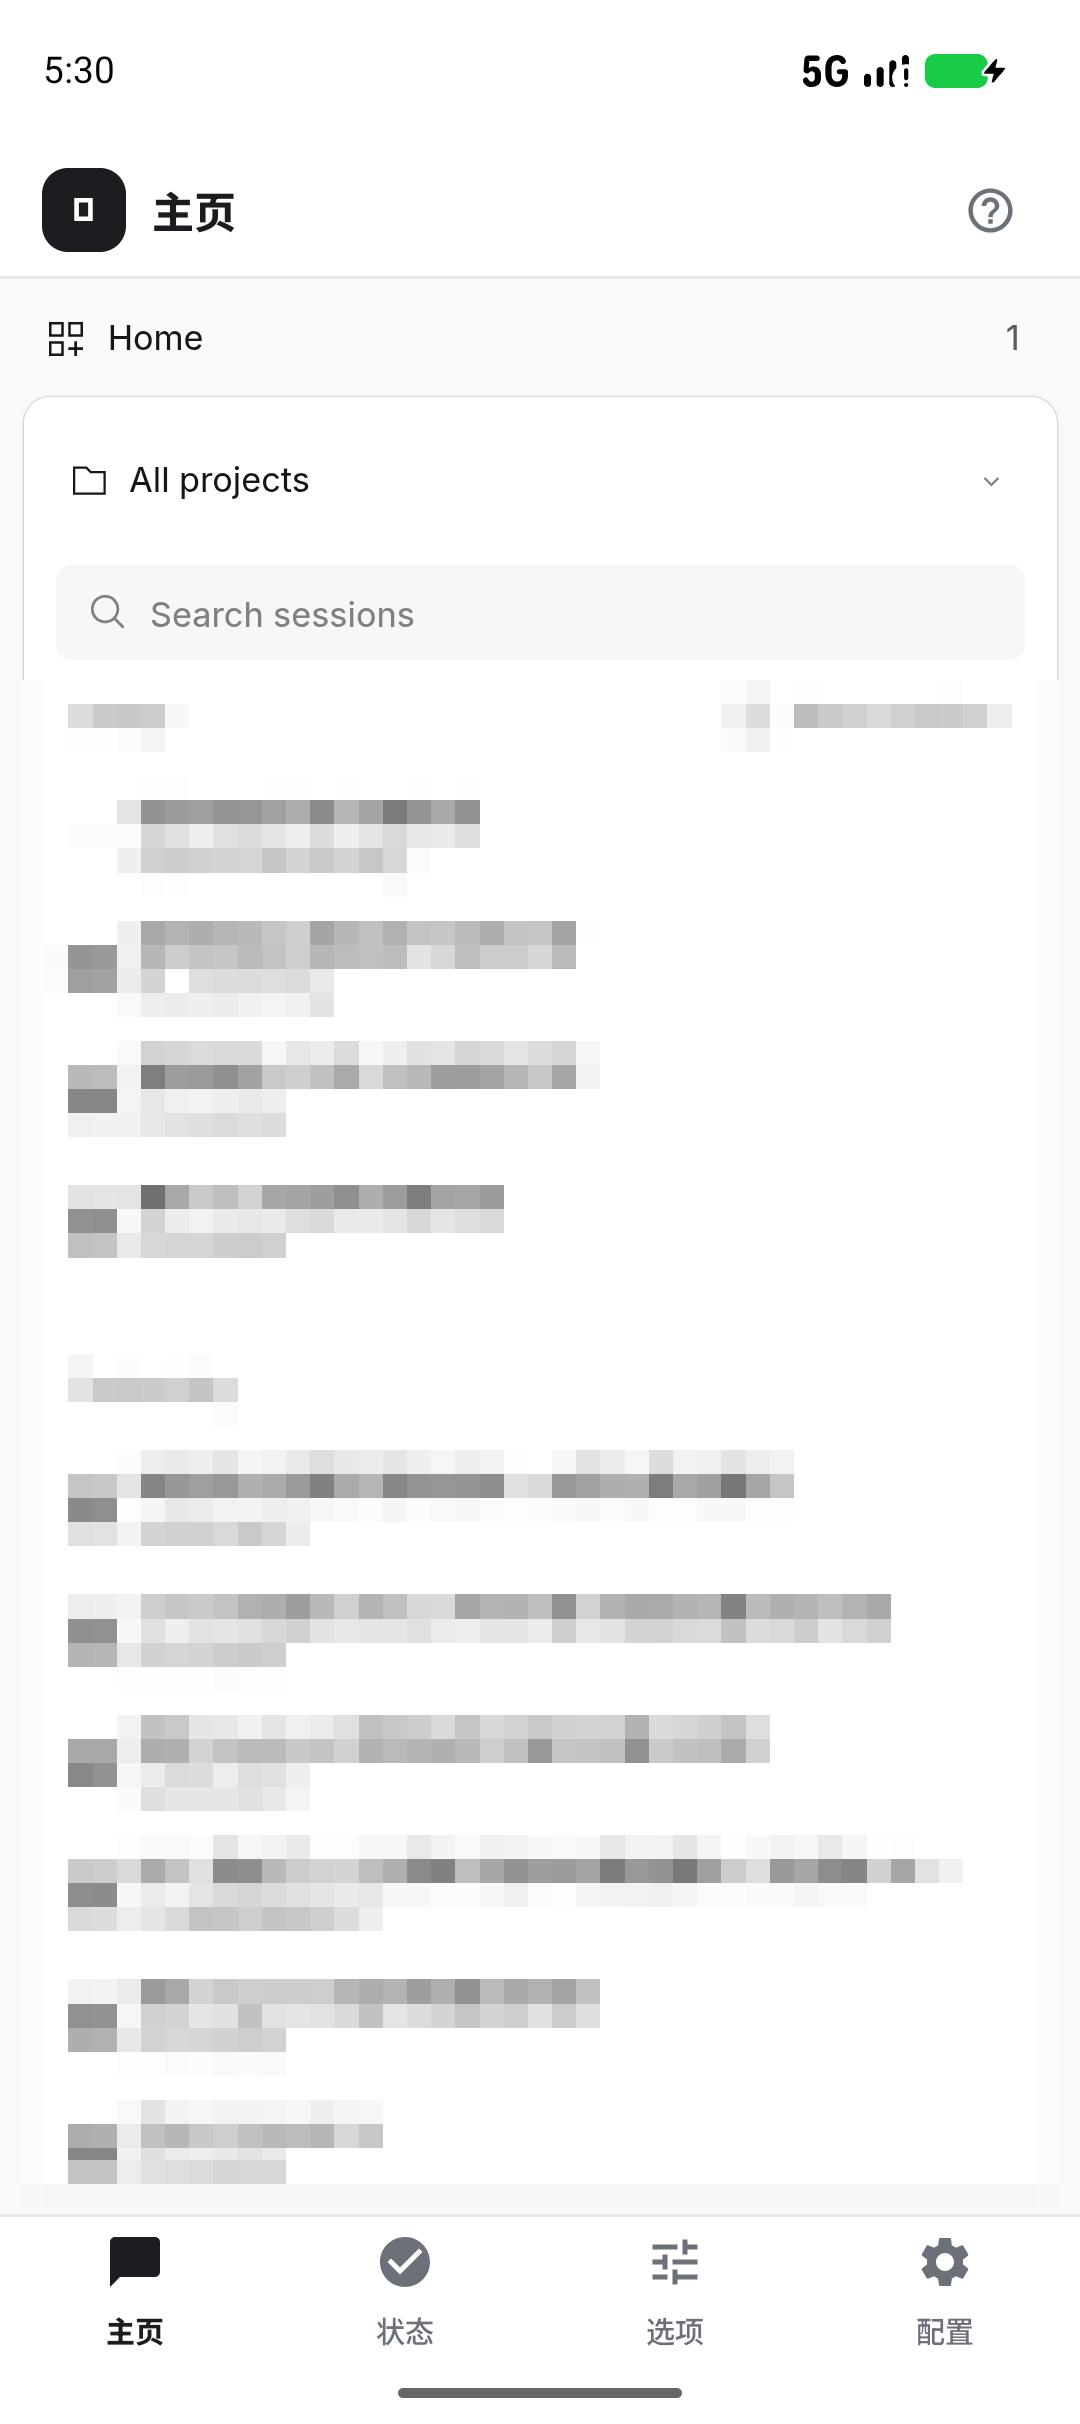
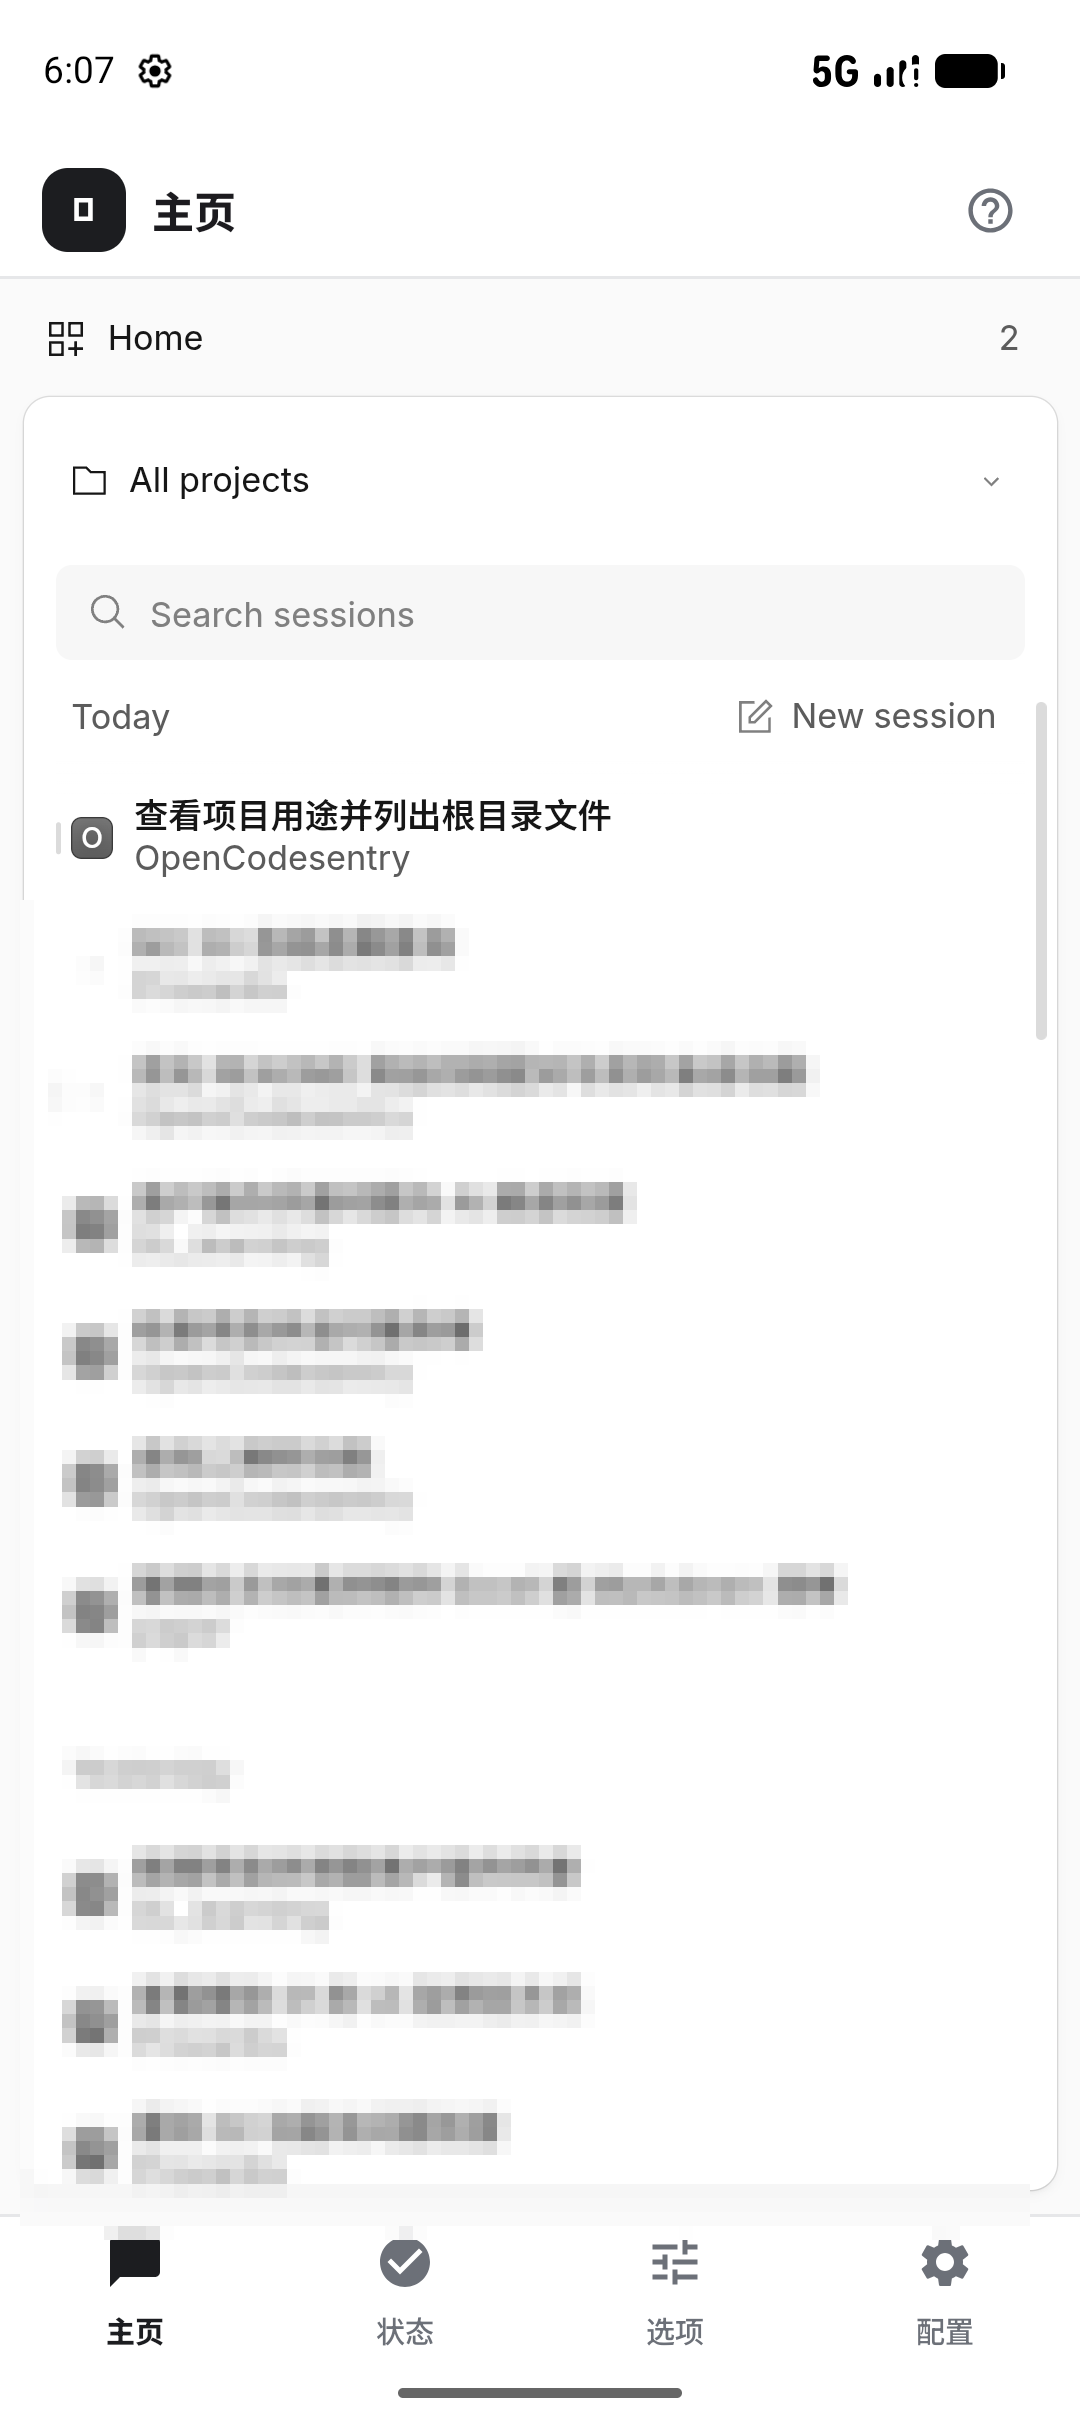
docs: rework README around the scan-to-pair live console
Scanner pairing, real-time session management, sending prompts from the
phone and watching live agent progress are now the headline, illustrated
with fresh emulator screenshots taken against a real server:

- console-new-session.png: composing a new session on the phone
- console-progress.png: message sent, tool run streaming, 'Working'
- console-answer.png: finished answer with tool usage
- 07-console-home.png refreshed (unrelated sessions pixelated)

Also records the session in docs/verification.md (§14) and notes the
change in CHANGELOG.md.

diff --git a/docs/verification.md b/docs/verification.md
@@ -489,4 +489,43 @@ service scope 上，与 SSE 线程并发。
   - `asked` 后 0.3 秒发 `replied` → 日志
     `answered within the grace period; no alert`，通知栏无提醒。
 
+## 14. 控制台实战：新建会话 → 手机发消息 → 看实时进度（本轮，已实测）
+
+在模拟器上把「手机当遥控器」的整条链路完整跑了一遍，作为 README 新截图的来源。
+
+环境：
+
+| 项 | 值 |
+|---|---|
+| 桥接 | `opencode-bridge.py --bind 127.0.0.1 --port 4096`（模拟器无 Tailscale，走 `adb reverse`） |
+| OpenCode | 2.0.22（macOS，`opencode-cli serve --service`，`127.0.0.1:49374`） |
+| 设备 | 模拟器 Pixel_9a，1080×2424，Android 17 / SDK 37 |
+
+步骤与证据：
+
+1. `adb install -r -g` → Success；调试构建以 extras 播种主机 / 端口 / 密码，
+   守护日志出现 `stream open: http://127.0.0.1:4096` 与 `reconcile: active=… streamOpen=true`。
+2. 主页加载官方 web 客户端：会话列表、项目分组与电脑端一致
+   （刷新截图 `screenshots/07-console-home.png`，无关会话已打码）。
+3. 在 App 内点 **New session**，输入 prompt 并从手机发送：
+   - 会话 `ses_efec6d960ffeNuTW1a1J8owXMs` 建立，标题自动生成为「查看项目用途并列出根目录文件」；
+   - 回合执行期间手机端实时显示 `Working` 与 `Used 1 Shell`
+     （截图 `screenshots/console-progress.png`），内容由 SSE 逐字刷新，不是轮询；
+   - 第一个回合 17 秒完成，答案页显示工具调用统计 `Used 6 Read, Glob`
+     （截图 `screenshots/console-answer.png`）；
+   - 从手机追加第二问（统计 `docs/verification.md` 的行数与章节数）同样正常完成。
+4. 对照服务端：`GET /api/session/<id>` 与页面内容一致；回合结束后停止刷新。
+
+本轮新增 / 刷新的截图：
+
+| 文件 | 内容 |
+|---|---|
+| `screenshots/console-new-session.png` | 手机上新建会话：输入框、模型 / 思考深度、项目与分支 |
+| `screenshots/console-progress.png` | 消息已发出，工具调用与输出实时进行中 |
+| `screenshots/console-answer.png` | 完成后的答案与工具用量 |
+| `screenshots/07-console-home.png` | 刷新：会话列表（无关会话已打码） |
+
+方法说明：模拟器无法用相机扫真机二维码，本轮配对走调试种子（与扫码等价的凭据路径）；
+`ScanActivity` 的相机流程仍需真机确认（见 §9）。
+
 

diff --git a/CHANGELOG.md b/CHANGELOG.md
@@ -47,6 +47,14 @@ First public release.
 - Text fields restyled: borderless filled boxes with 12dp corners; focus is
   shown by the floating label turning ink instead of an outline.
 
+### Changed
+
+- README reworked around the in-app console: scan-to-pair setup, real-time
+  session management, sending prompts from the phone and watching live agent
+  progress are now the headline, illustrated with fresh emulator screenshots
+  (`console-new-session.png`, `console-progress.png`, `console-answer.png`;
+  `07-console-home.png` refreshed).
+
 ### Fixed
 
 - Permission alerts fired even when every permission was granted: OpenCode
